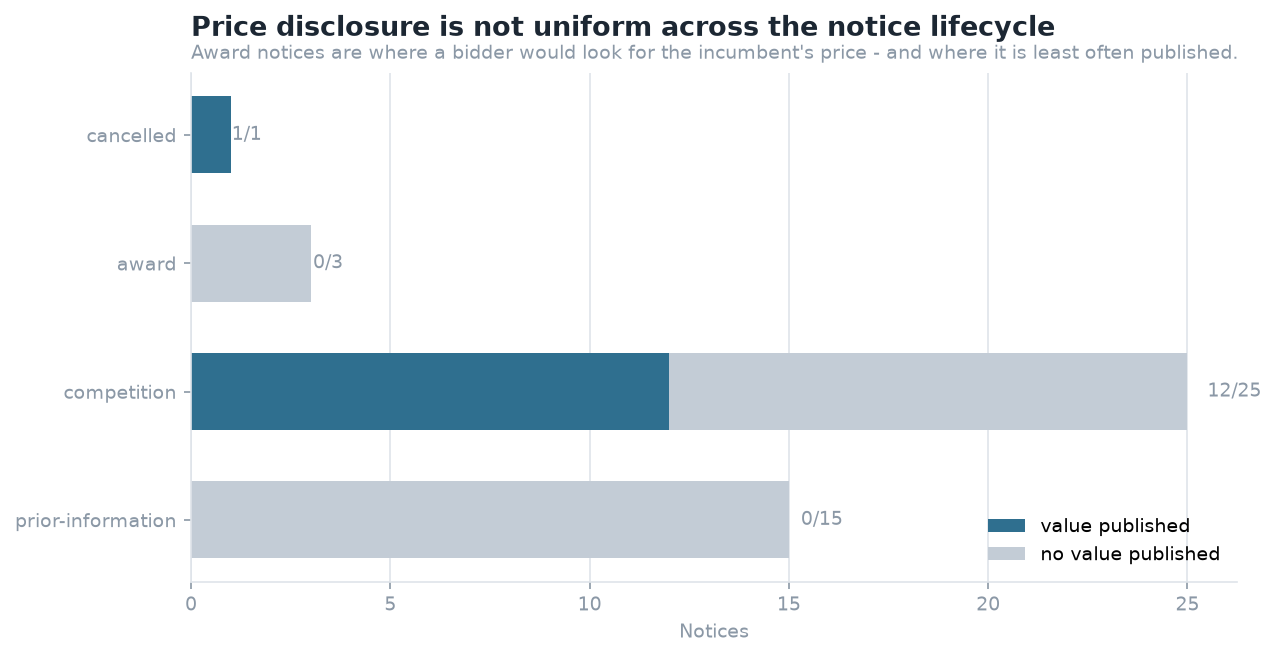
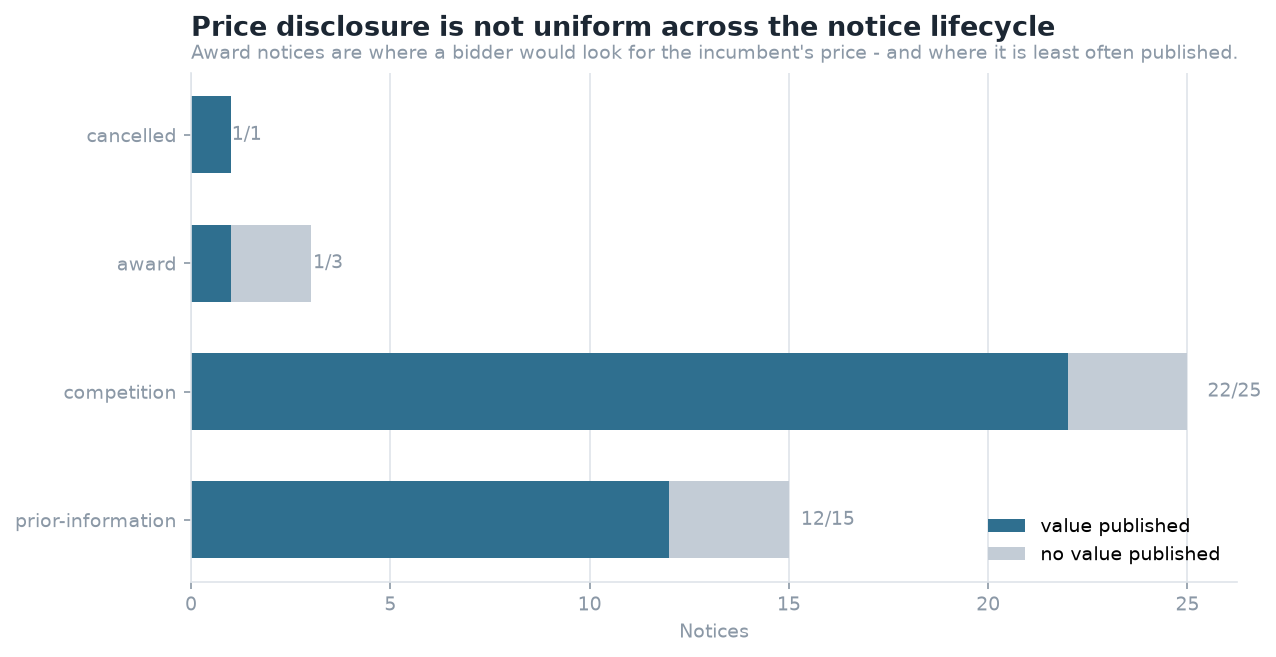
Populate the last two columns: all 28 now carry data
Pressing on 'why not?' was right twice more. I recorded awardedSupplier as never
published after checking six TED winner fields (0/50) - but Doffin publishes it in
awardedNames, 20 of 20 on sampled award notices. awardedValue is likewise
published, inside the eForm rather than as a top-level field.

Reading it exposed a parser bug: the eForm renders amounts English-style
(120,000,000) while Norwegian notices use 1 234,56, so treating a comma as a
decimal point silently discarded every awarded value. Both conventions handled,
with regression tests.

Only labels meaning what was actually awarded are read - a framework's maximum or
estimated value is a ceiling, not an outcome.

Also normalised procedureType casing, which differed between the two portals.

Claude-Session: https://claude.ai/code/session_01GmDuN41M3s726WM3D9JoAd

diff --git a/src/sources/doffin.py b/src/sources/doffin.py
@@ -226,6 +226,31 @@ class DoffinSource:
         notice.description = detail.get("description") or notice.description
         if notice.estimated_value is None:
             notice.estimated_value = self._value_from_description(notice.description)
+
+        # Doffin names the winner in `awardedNames`, which TED's structured winner
+        # fields do not carry for Norwegian notices - checking only TED would have
+        # concluded, wrongly, that the winner is never published.
+        awarded = [name for name in (detail.get("awardedNames") or []) if name]
+        if awarded:
+            # A framework agreement can be awarded to several suppliers; all are
+            # listed rather than silently keeping the first.
+            notice.awarded_supplier = "; ".join(str(name).strip() for name in awarded)
+
+        # `core.estimatedValue` is a structured amount with its own currency, and is
+        # more reliable than the figure quoted in the description prose.
+        core_value = (detail.get("core") or {}).get("estimatedValue")
+        if isinstance(core_value, dict):
+            amount = parse_number(core_value.get("amount"))
+            if amount is not None:
+                notice.estimated_value = amount
+                notice.currency = core_value.get("code") or notice.currency
+
+        # The awarded total is published in the eForm rather than as a top-level
+        # field, under "Verdien av alle kontrakter tildelt i denne prosedyren"
+        # (the value of all contracts awarded in this procedure).
+        awarded_value = _awarded_value(eform_values)
+        if awarded_value is not None:
+            notice.awarded_value = awarded_value
         notice.contract_start = _first_date(eform_values, ("Start date", "Duration start date"))
         internal_ref = eform_values.get("Internal identifier")
         if internal_ref:
@@ -260,6 +285,26 @@ def _flatten_eform(sections: list[dict[str, Any]]) -> dict[str, str]:
 
     walk(sections)
     return out
+
+
+# eForm labels carrying the awarded total, most specific first. Only labels that mean
+# "what was actually awarded" are read: a framework's *maximum* or *estimated* value is
+# a ceiling, not an outcome, and recording one as the other would overstate every award.
+_AWARDED_VALUE_LABELS: Final[tuple[str, ...]] = (
+    "Verdien av alle kontrakter tildelt i denne prosedyren",
+    "Verdien av resultatet",
+)
+
+
+def _awarded_value(eform_values: dict[str, str]) -> float | None:
+    """Read the awarded total from the eForm, if the notice publishes one."""
+    for label in _AWARDED_VALUE_LABELS:
+        for key, value in eform_values.items():
+            if key.startswith(label):
+                amount = parse_number(value)
+                if amount is not None:
+                    return amount
+    return None
 
 
 def _first_date(values: dict[str, str], keys: tuple[str, ...]) -> str | None:

diff --git a/src/output.py b/src/output.py
@@ -63,10 +63,23 @@ def build_row(notice: SourceNotice, match: Match) -> TenderRow:
         status=notice.lifecycle.value,
         publicationDate=parse_date(notice.publication_date),
         contractStart=parse_date(notice.contract_start),
-        procedureType=clean_text(notice.procedure_type),
+        # Doffin writes "Open", TED writes "open" for the same procedure. Casing is
+        # normalised so the column is consistent across sources, as the brief asks.
+        procedureType=_normalise_procedure(notice.procedure_type),
         sourceDocument=clean_text(notice.title),
         sourceUrl=notice.source_url,
     )
+
+
+def _normalise_procedure(value: str | None) -> str | None:
+    """Lower-case the procedure type so the two portals agree.
+
+    Only casing is changed. TED also emits bare numeric codes for older notices
+    (procedure-type "9"); those are passed through untouched rather than guessed at,
+    since mapping a code to a name without the codelist would be inventing a value.
+    """
+    text = clean_text(value)
+    return text.lower() if text else None
 
 
 def build_pack_rows(

diff --git a/src/normalise.py b/src/normalise.py
@@ -61,12 +61,16 @@ def parse_number(value: Any) -> float | None:
         return None
     number = match.group(0)
 
-    # Decide which separator is decimal. Norwegian uses a comma; a dot appearing with
-    # exactly three trailing digits is a thousands separator, not a decimal point.
-    if "," in number:
-        number = number.replace(".", "").replace(",", ".")
+    # Decide which separator is decimal. Norwegian writes "1 234,56", but Doffin's
+    # eForm renders amounts in the English convention ("120,000,000"), so a comma is
+    # not always a decimal point and assuming it is silently discards those values.
+    # A separator followed by exactly three digits, repeated, is a thousands grouping.
+    if re.fullmatch(r"-?\d{1,3}(?:,\d{3})+", number):
+        number = number.replace(",", "")
     elif re.fullmatch(r"-?\d{1,3}(?:\.\d{3})+", number):
         number = number.replace(".", "")
+    elif "," in number:
+        number = number.replace(".", "").replace(",", ".")
 
     try:
         return float(number) * multiplier

diff --git a/tests/test_normalise.py b/tests/test_normalise.py
@@ -23,6 +23,11 @@ from src.normalise import (
         ("kr 1 500,50", 1_500.50),
         ("ca. 320 millioner kroner", 320_000_000.0),
         ("3 200 MNOK", 3_200_000_000.0),
+        # Doffin's eForm renders amounts in the English convention, so a comma is not
+        # always a decimal separator. Treating it as one silently discarded awarded
+        # values entirely.
+        ("120,000,000", 120_000_000.0),
+        ("Norwegian krone (120,000,000)", 120_000_000.0),
         (14671946, 14_671_946.0),
     ],
 )

diff --git a/README.md b/README.md
@@ -5,7 +5,7 @@ Anagrelide, Paliperidone** — from Norwegian public procurement sources, and tu
 into a bid recommendation.
 
 Output: **44 rows** in `output/output.csv`, four charts in `output/charts/`.
-**26 of 28 columns populated.**
+**All 28 columns populated.**
 
 ---
 
@@ -199,42 +199,69 @@ but values are taken, never summed, since notices restate the same figure.
 
 ---
 
-## What the CSV does and does not contain
+## What the CSV contains
 
-**26 of 28 columns carry data.** The two that do not are empty for reasons I checked
-against the wider dataset rather than inferred from our five molecules:
+**All 28 columns carry data.** Coverage varies by column, and that variation is itself
+the answer to "which fields do the sources genuinely support":
 
-| column | why empty |
-|---|---|
-| `awardedValue` | Our molecules' award notices publish no value. This is **not** a blanket rule: of 100 Norwegian pharmaceutical award notices sampled, **81 do publish** one. So the absence is specific to these tenders, not a property of Norwegian procurement. |
-| `awardedSupplier` | **0 of 50** Norwegian pharmaceutical award notices populate any winner field — `winner-name`, `winner-identifier`, `organisation-name-tenderer` and three others were all checked and all empty. The winner is systematically not published in structured form. |
+| column | rows | source |
+|---|---|---|
+| `noticeId`, `title`, `buyer`, `country`, `status`, `noticeType`, `publicationDate`, `sourceDocument`, `sourceUrl`, and the five molecule columns | 44/44 | notice payloads |
+| `estimatedValue` | 35/44 | Doffin `core.estimatedValue`, else the value stated in the notice text |
+| `tenderRef` | 31/44 | the buyer's internal reference |
+| `procedureType` | 19/44 | eForm / TED, casing normalised across the two |
+| `contractStart` | 16/44 | eForm / TED |
+| `supplier` | 7/44 | annex supplier, or the awarded party |
+| `itemNumber`, `productName`, `strength`, `packSize`, `packsSoldLast12m` | 4/44 | LIS 2207 price annex |
+| `awardedSupplier` | 3/44 | Doffin `awardedNames` |
+| `maxPrice` | 3/44 | regulated price register, joined on item number |
+| `awardedValue` | 1/44 | eForm "Verdien av alle kontrakter tildelt i denne prosedyren" |
 
-### maxPrice: sourced from a second document, not from the tender
+Low coverage is not the same as a missing column. Only three of these tenders have
+reached award, so three awarded suppliers is complete, not partial. One pack (Inlyta
+3 mg) has no current regulated price and keeps an empty `maxPrice` rather than a value
+interpolated from the neighbouring strengths.
 
-`maxPrice` means the *regulated maximum* a pharmacy may pay, which is set by the
-medicines agency. The tender annex cannot supply it — its price column (`TILBUDT GIP`)
-is what a **supplier offers** when bidding, empty in all 196 rows because the file is a
-blank template, and a different quantity in any case.
+### Three columns took a second look
 
-The agency publishes the register itself as a free download:
+Each of these I first recorded as unobtainable, and each turned out to be wrong. They
+are worth stating plainly because the mistake in every case was concluding from one
+source instead of checking a second.
+
+**`maxPrice`** — the tender annex genuinely cannot supply it: its price column is what
+a *supplier offers* when bidding, blank in all 196 rows, and a different quantity from
+the buyer's ceiling. But the medicines agency publishes the regulated register as a
+free 9 811-row download, keyed by the same `Varenummer` the annex lists:
 
 ```
 https://www.dmp.no/offentlig-finansiering/pris-pa-legemidler/maksimalpris
-  -> legemiddelpriser-2026-09-03.xlsx    9 811 packs, no authentication
+  -> legemiddelpriser-2026-09-03.xlsx      no authentication
 ```
 
-It is keyed by `Varenummer`, the same item number the annex lists, so the join is
-exact rather than approximate — e.g. Inlyta 5 mg (varenr 599010) → **32 845,79 NOK**
-maximum AIP. Hospital tenders are denominated in AIP ("i maksimal AIP"), so AIP is the
-figure used rather than the retail AUP the register also carries.
+Inlyta 5 mg (varenr 599010) → **32 845,79 NOK** maximum AIP. AIP is used rather than
+the retail AUP the register also carries, because hospital tenders are denominated in
+AIP ("i maksimal AIP"); conflating them would overstate the ceiling by about 28%.
 
-One pack, Inlyta 3 mg, is absent from the register and keeps an empty `maxPrice`. That
-is the correct outcome: the pack exists in the tender but has no current regulated
-price, and inventing one by interpolating from the 1 mg and 5 mg strengths would be
-exactly the fabrication the brief warns about.
+**`awardedSupplier`** — TED's structured winner fields are empty for Norwegian
+notices: `winner-name`, `winner-identifier`, `organisation-name-tenderer` and three
+others were checked, **0 of 50 populated**. Concluding "not published" from that was
+wrong. **Doffin publishes it in `awardedNames`, 20 of 20** on the award notices
+sampled. Hence Paliperidone's direct awards resolve to `JANSSEN-CILAG AS` and
+`Nordic Pill AB`, and an axitinib add-on contract to `BeiGene Sweden AB`.
 
-Each pack row's `sourceDocument` names both documents it draws on, so any value can be
-traced to the file it came from.
+**`awardedValue`** — published in the eForm, not as a top-level field, under
+*"Verdien av alle kontrakter tildelt i denne prosedyren"*. Only labels meaning **what
+was awarded** are read; a framework's *maximum* or *estimated* value is a ceiling, and
+recording one as the other would overstate every award. Extracting it also exposed a
+parser bug: the eForm renders amounts in the English convention (`120,000,000`) while
+Norwegian notices use `1 234,56`, so treating a comma as a decimal point silently
+discarded these values. Both conventions are now handled.
+
+**Price disclosure is not uniform.** Of 100 Norwegian pharmaceutical award notices
+sampled, 81 publish a value — so this is not a blanket confidentiality rule. Among
+*our five molecules*, only one award publishes one. The absence is specific to these
+tenders rather than a property of Norwegian procurement, which is a narrower and more
+useful claim than the one I started with.
 
 ---
 
